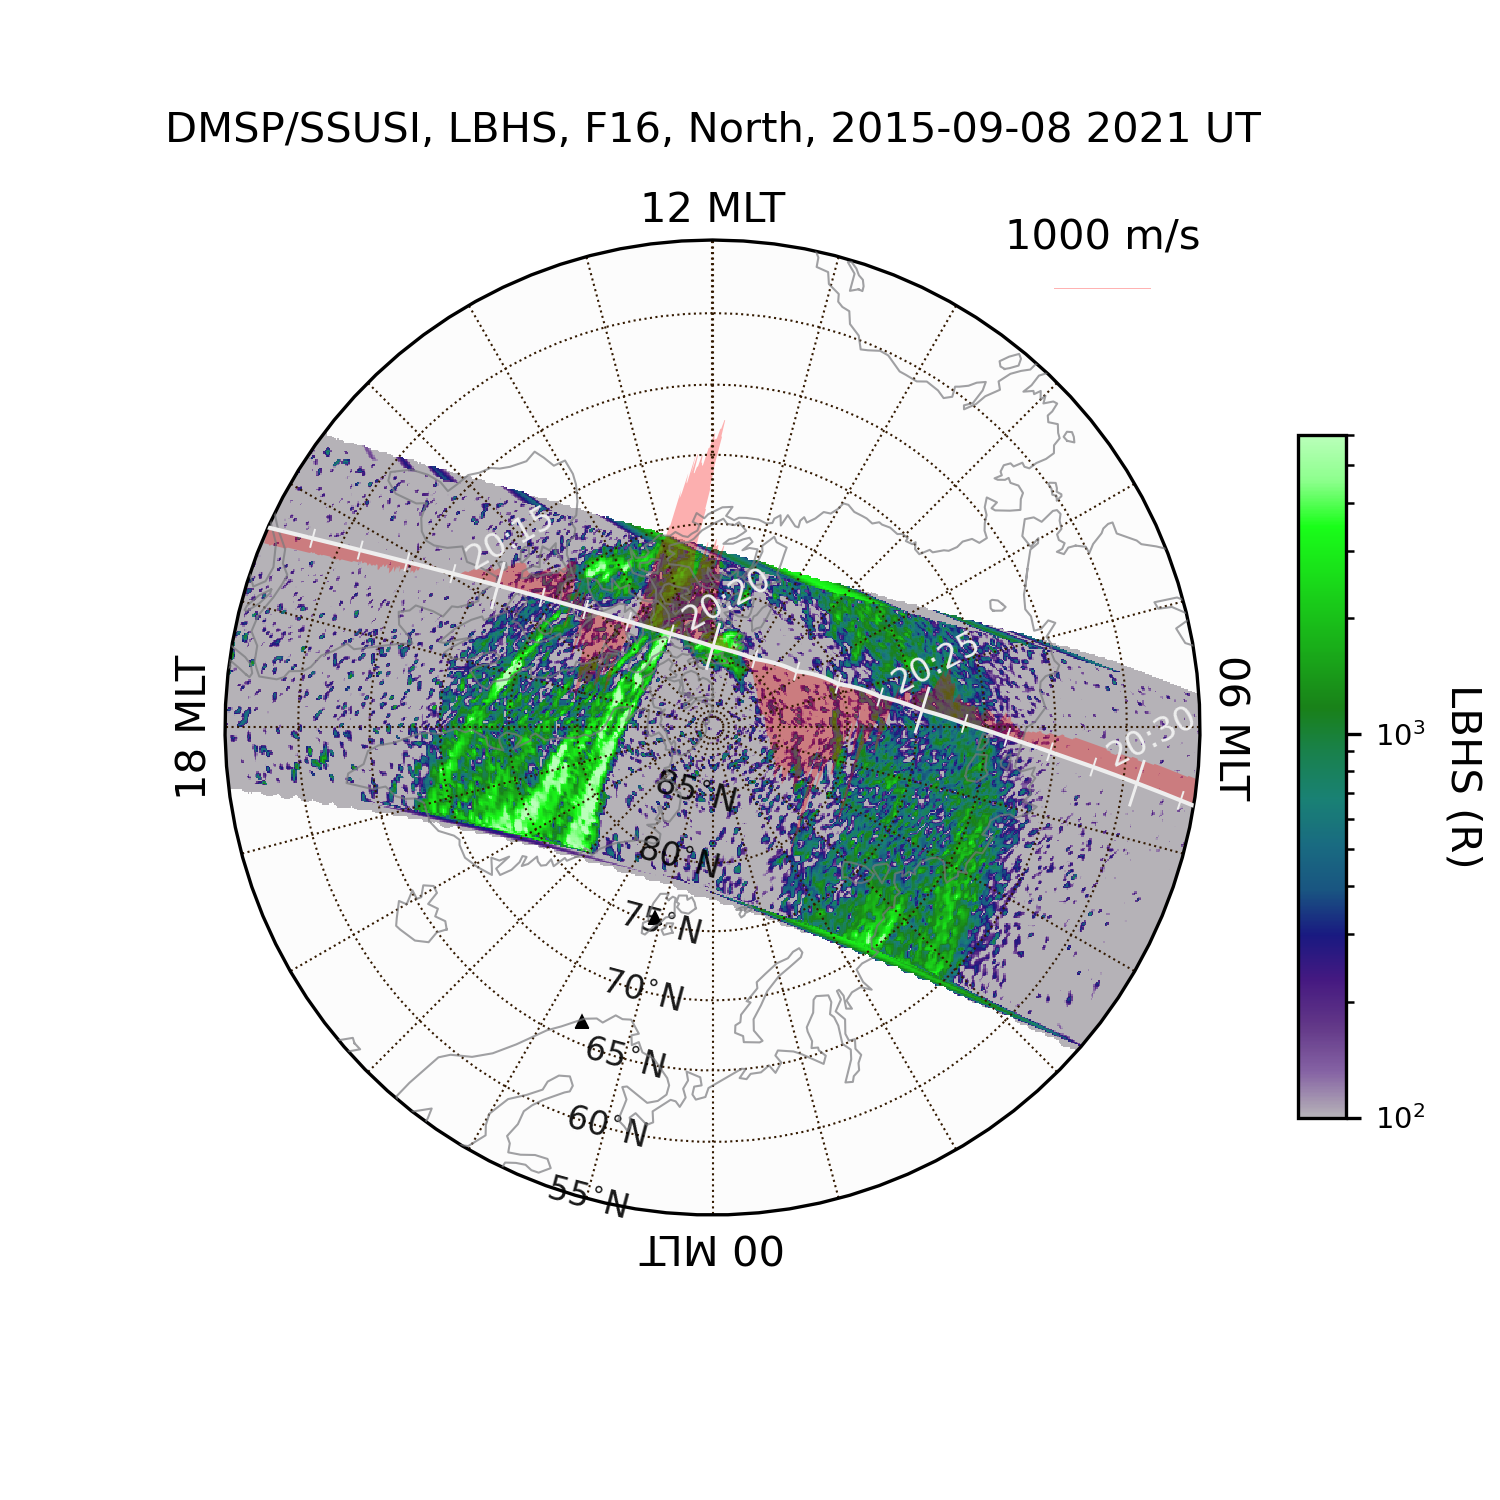
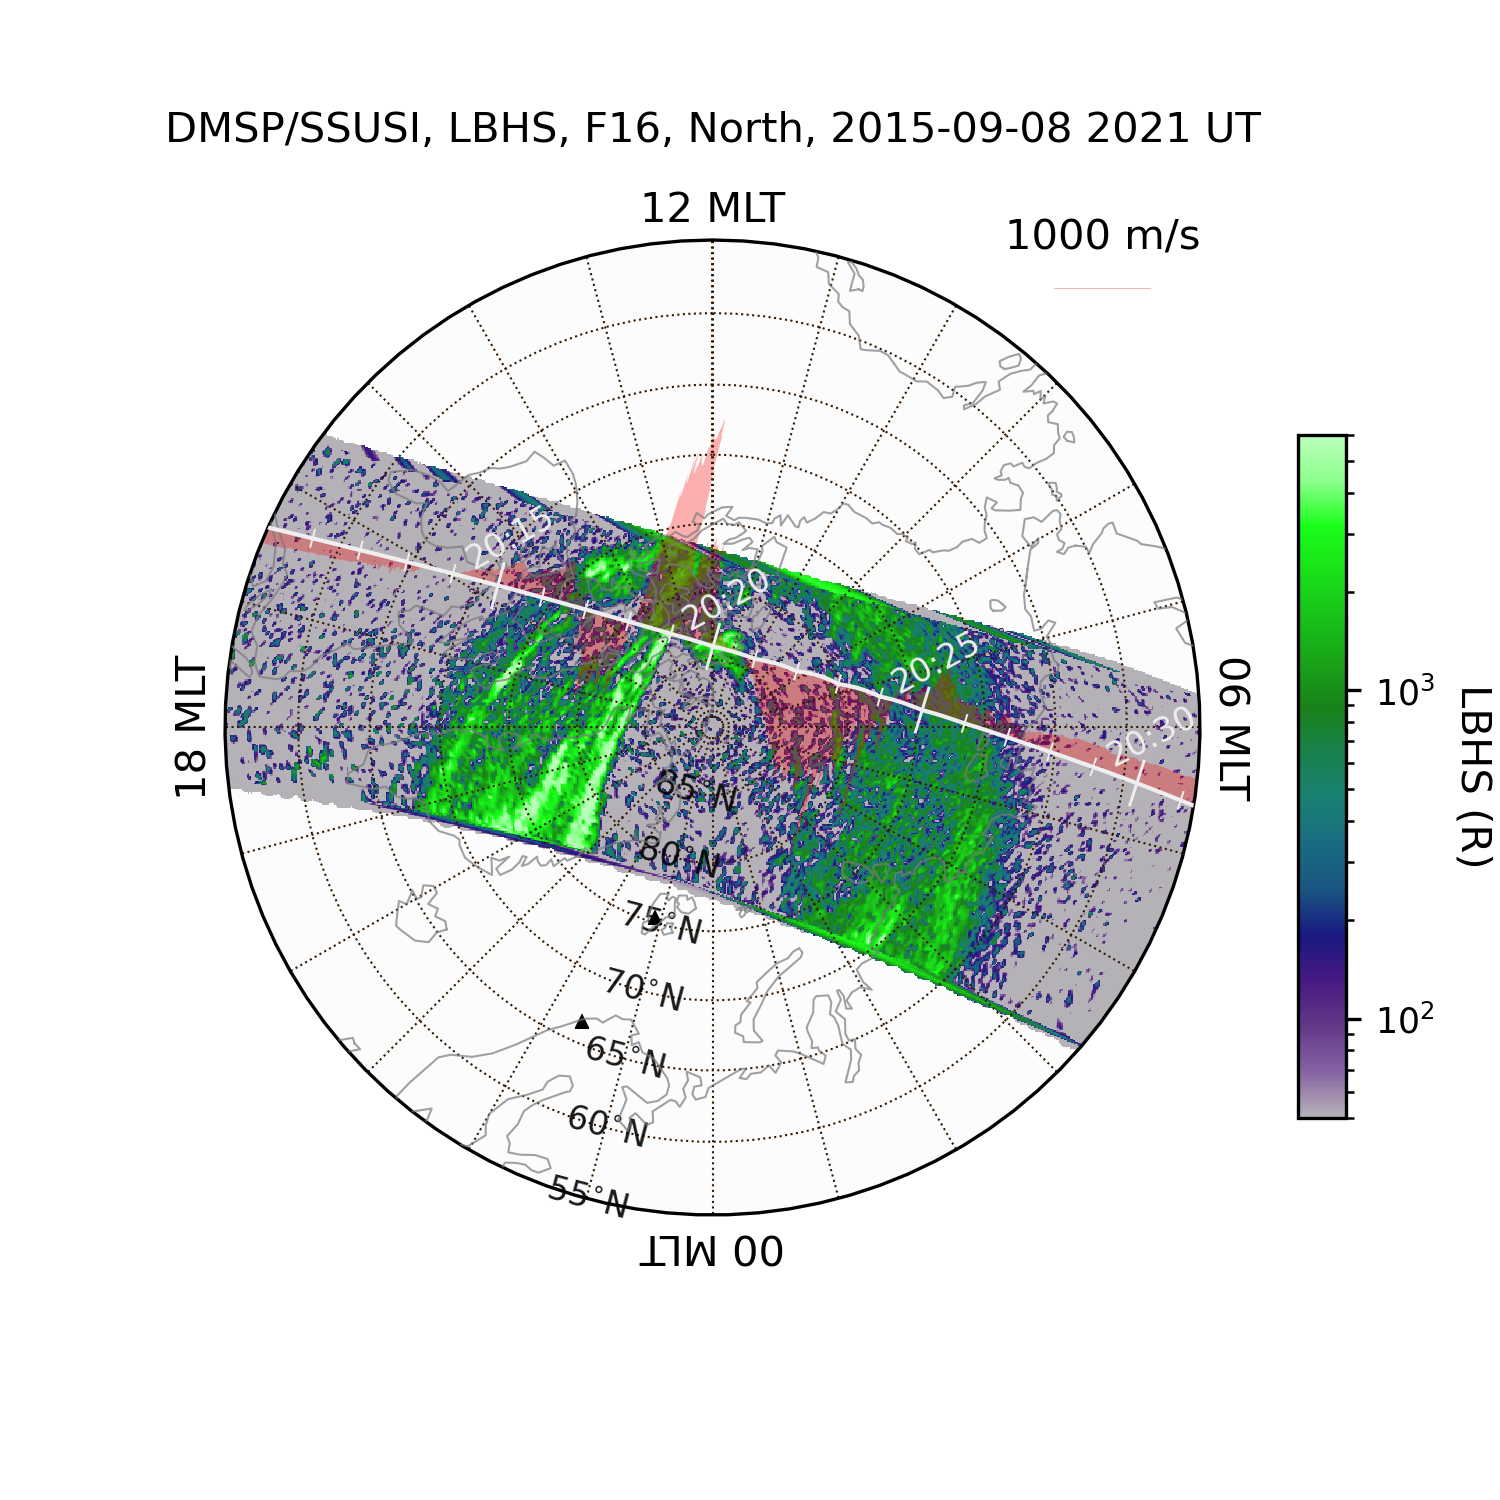
update

diff --git a/geospacelab/datahub/sources/cdaweb/dmsp/ssusi/edr_aur/variable_config.py b/geospacelab/datahub/sources/cdaweb/dmsp/ssusi/edr_aur/variable_config.py
@@ -30,7 +30,7 @@ default_plot_config = {
     'pcolormesh':   {
         'cmap':            default_colormap,
         'c_scale':         'log',
-        'c_lim':           [10, 6000],
+        'c_lim':           [50, 6000],
         'alpha':            0.9,
     }
 }
